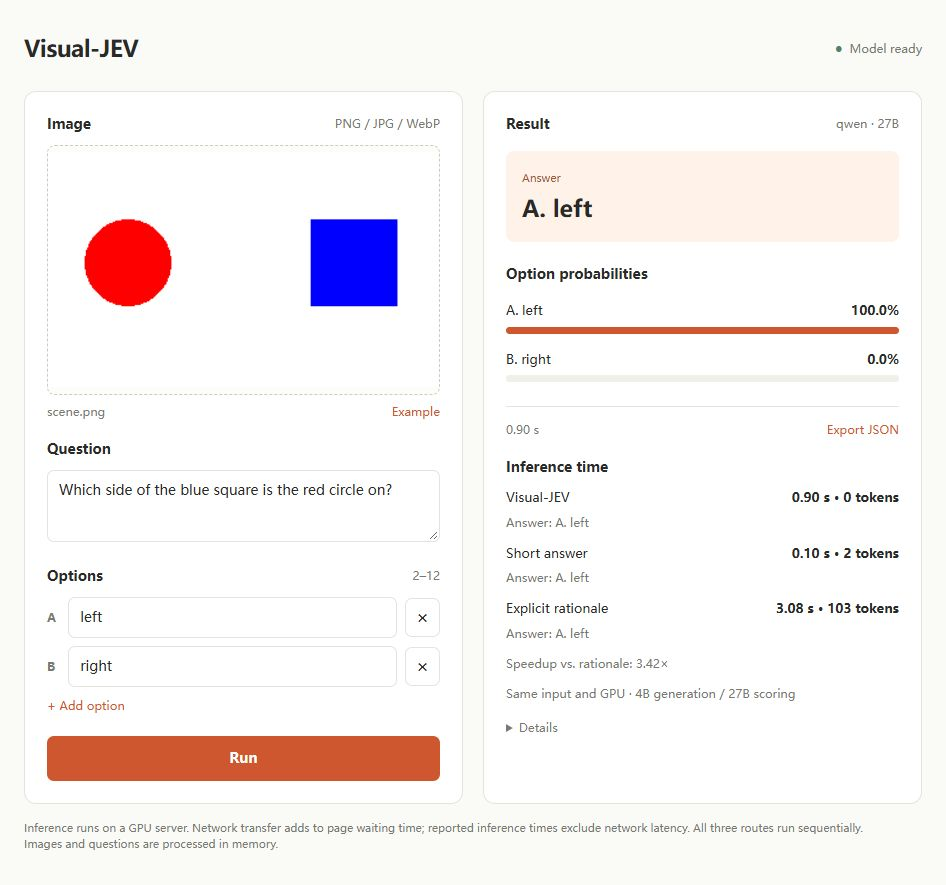
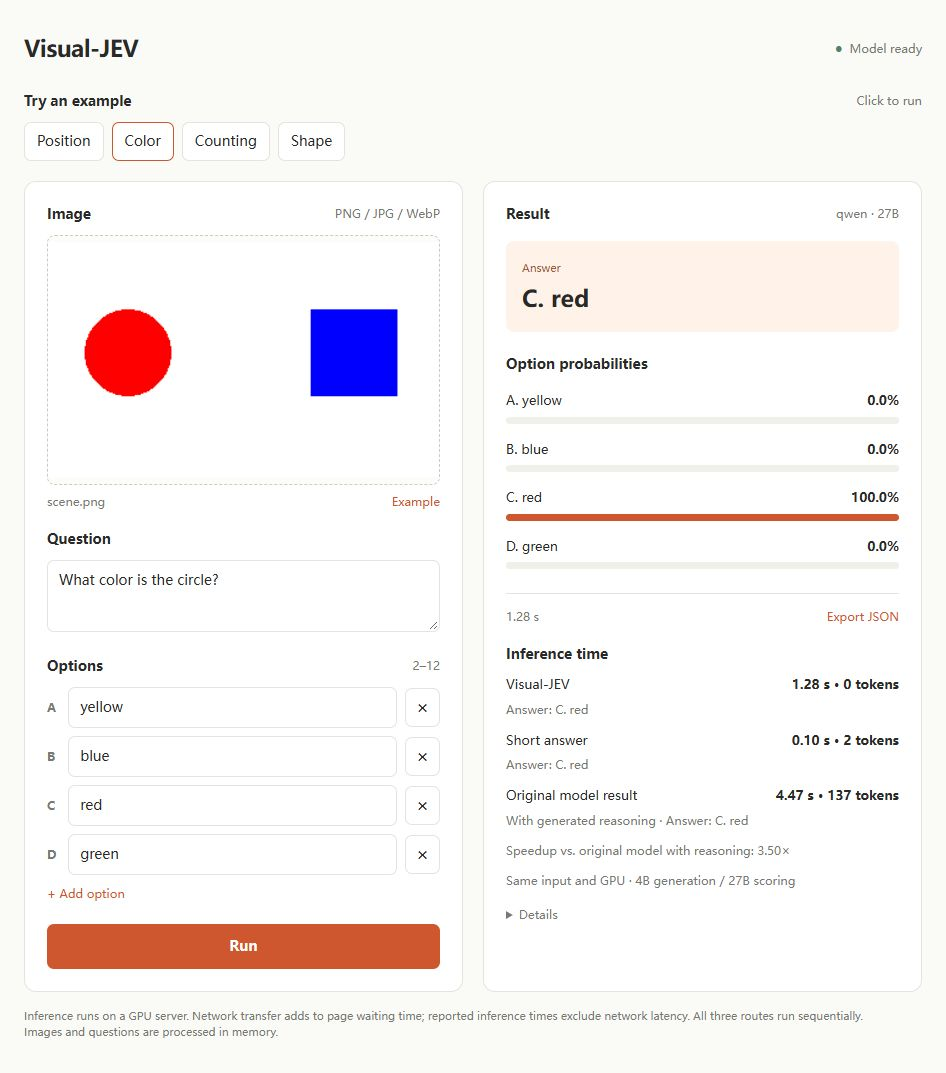
Add one-click examples and clarify original model results

diff --git a/visualjev/demo/web/index.html b/visualjev/demo/web/index.html
@@ -4,7 +4,7 @@
 :root{--ink:#292a28;--muted:#777973;--line:#e4e4dd;--accent:#cf572f}[hidden]{display:none!important}*{box-sizing:border-box}body{margin:0;background:#fafaf7;color:var(--ink);font:14px/1.5 system-ui,-apple-system,Segoe UI,sans-serif}main{max-width:1080px;margin:32px auto;padding:0 24px}header{display:flex;align-items:center;justify-content:space-between;margin-bottom:24px}h1{font-size:23px;letter-spacing:-.6px;margin:0}.status{font-size:12px;color:var(--muted)}.status:before{content:'●';margin-right:7px;color:#d7a851}.status.ready:before{color:#528268}.workspace{display:grid;grid-template-columns:1fr 1fr;gap:20px}.card{background:#fff;border:1px solid var(--line);border-radius:12px;padding:22px}.label{display:flex;justify-content:space-between;align-items:center;font-weight:600;margin-bottom:10px}.sub{color:var(--muted);font-size:12px;font-weight:400}.drop{height:250px;border:1px dashed #caccbf;border-radius:8px;background:#fcfcf9;display:flex;align-items:center;justify-content:center;cursor:pointer;overflow:hidden;text-align:center}.drop.drag{background:#fff0e8;border-color:var(--accent)}.drop img{width:100%;height:100%;object-fit:contain}.drop small{display:block;color:var(--muted);margin-top:4px}button{font:inherit;cursor:pointer;border-radius:7px;border:1px solid var(--line);padding:8px 12px;background:white;color:var(--ink)}button:hover{border-color:var(--accent)}button:disabled{cursor:wait;opacity:.55}.link{border:0;padding:0;color:var(--accent);font-size:12px;background:none}.controls{display:flex;justify-content:space-between;margin-top:8px}.field{margin-top:18px}textarea,input{font:inherit;color:var(--ink);border:1px solid var(--line);border-radius:7px;padding:9px 11px;width:100%;background:white}textarea:focus,input:focus{outline:2px solid #edc4b3;outline-offset:1px}textarea{min-height:72px;resize:vertical}.option{display:flex;align-items:center;gap:8px;margin-top:8px}.letter{font:600 12px system-ui;color:var(--muted);width:16px}.remove{padding:5px 10px;font-size:18px}.run{background:var(--accent);color:white;border:0;width:100%;margin-top:20px;font-weight:600;padding:12px}.empty{min-height:220px;display:grid;place-items:center;color:var(--muted);font-size:13px}.answer{padding:16px;background:#fff2e9;border-radius:8px;margin:16px 0 22px}.answer small{color:#9d5739;font-size:11px}.answer h2{font-size:23px;margin:4px 0 0;overflow-wrap:anywhere}.prob{margin:16px 0}.prob-top{display:flex;justify-content:space-between;gap:12px;margin-bottom:6px;font-size:13px}.prob-name{overflow-wrap:anywhere}.track{height:7px;background:#f0f0ea;border-radius:3px;overflow:hidden}.bar{height:100%;background:#d1cfc6;border-radius:3px}.prob.winner .bar{background:var(--accent)}.result-tools{display:flex;justify-content:space-between;align-items:center;margin-top:24px;border-top:1px solid var(--line);padding-top:14px}.error{color:#a33220;background:#fff0ec;padding:10px;border-radius:7px;margin-top:12px;white-space:pre-wrap}details{font-size:12px;margin-top:16px;color:var(--muted)}summary{cursor:pointer}pre{white-space:pre-wrap;overflow-wrap:anywhere;font-size:11px;max-height:220px;overflow:auto}.detail-note{margin:10px 0;font-size:12px}footer{margin-top:16px;color:var(--muted);font-size:11px}@media(max-width:740px){main{margin:20px auto;padding:0 14px}.workspace{grid-template-columns:1fr}.card{padding:18px}}
 </style></head><body><main>
 <header><h1>Visual-JEV</h1><div id="status" class="status">Connecting…</div></header>
-<div class="workspace"><section class="card">
+<section style="margin-bottom:20px"><div class="label">Try an example <span class="sub">Click to run</span></div><div id="quick-examples" style="display:flex;flex-wrap:wrap;gap:8px"></div></section><div class="workspace"><section class="card">
 <div class="label">Image <span class="sub">PNG / JPG / WebP</span></div>
 <div id="drop" class="drop" tabindex="0" role="button" aria-label="Upload image"><div id="placeholder">Drop an image or click to upload<small>Up to 16 MB</small></div><img id="preview" alt="Uploaded image" hidden></div>
 <input id="file" type="file" accept="image/png,image/jpeg,image/webp" hidden>
@@ -19,5 +19,13 @@
 <div id="comparison" style="margin-top:18px"></div><details><summary>Details</summary><p class="detail-note">Probabilities: softmax over the supplied options at T = 1. Model time excludes upload and loading.</p><pre id="details"></pre></details>
 </div></section></div><footer>Inference runs on a GPU server. Network transfer adds to page waiting time; reported inference times exclude network latency. All three routes run sequentially.<br>Images and questions are processed in memory.</footer>
 </main><script>
-function nativeAnswer(x,candidates){const text=(x.output||'').trim();const final=[...text.matchAll(/(?:answer|final answer)\s*:\s*\**\s*([A-L])\b/gi)];const simple=text.match(/^\**\s*([A-L])(?:[.\s)]|$)/i);let letter=final.length?final[final.length-1][1]:((x.route==='Short answer'&&simple)?simple[1]:null);if(letter){const i=letter.toUpperCase().charCodeAt(0)-65;if(i<candidates.length)return letter.toUpperCase()+'. '+candidates[i];}const exact=candidates.findIndex(c=>c.toLowerCase()===text.toLowerCase());return exact>=0?String.fromCharCode(65+exact)+'. '+candidates[exact]:'No clear option (see Details)';}let imageData=null,lastResult=null,ready=false,busy=false;const $=id=>document.getElementById(id);function invalidate(){lastResult=null;$('result').hidden=true;$('empty').hidden=false;}function lockInputs(on){document.querySelectorAll('input,textarea,#add,#example,.remove').forEach(x=>x.disabled=on);if(!on)renumber();}function addOption(value=''){if($('options').children.length>=12)return;const row=document.createElement('div');row.className='option';const letter=document.createElement('span');letter.className='letter';const input=document.createElement('input');input.value=value;input.placeholder='Enter an answer';const rm=document.createElement('button');rm.className='remove';rm.textContent='×';rm.title='Remove option';rm.onclick=()=>{if($('options').children.length>2){row.remove();renumber();invalidate();}};row.append(letter,input,rm);$('options').append(row);renumber();}function renumber(){[...$('options').children].forEach((r,i)=>{r.firstChild.textContent=String.fromCharCode(65+i);r.querySelector('input').setAttribute('aria-label','Option '+String.fromCharCode(65+i));});$('add').disabled=$('options').children.length>=12;}addOption();addOption();$('add').onclick=()=>{addOption();invalidate();};$('question').oninput=invalidate;$('options').oninput=invalidate;function error(t){$('error').textContent=t;$('error').hidden=!t;}async function setFile(file){if(!file||busy)return;if(file.size>16*1024*1024)return error('Please use an image smaller than 16 MB.');if(!['image/png','image/jpeg','image/webp'].includes(file.type))return error('Please use PNG, JPEG or WebP.');const data=await new Promise((res,rej)=>{const r=new FileReader();r.onload=()=>res(r.result);r.onerror=rej;r.readAsDataURL(file);});imageData=data;$('preview').src=data;$('preview').hidden=false;$('placeholder').hidden=true;$('filename').textContent=file.name;error('');$('result').hidden=true;$('empty').hidden=false;}$('drop').onclick=()=>$('file').click();$('drop').onkeydown=e=>{if(e.key==='Enter'||e.key===' '){e.preventDefault();$('file').click();}};$('file').onchange=e=>setFile(e.target.files[0]);$('drop').ondragover=e=>{e.preventDefault();$('drop').classList.add('drag');};$('drop').ondragleave=()=>$('drop').classList.remove('drag');$('drop').ondrop=e=>{e.preventDefault();$('drop').classList.remove('drag');setFile(e.dataTransfer.files[0]);};$('example').onclick=async()=>{const r=await fetch('/example.png');await setFile(new File([await r.blob()],'scene.png',{type:'image/png'}));$('question').value='Which side of the blue square is the red circle on?';$('options').replaceChildren();addOption('left');addOption('right');};async function status(){try{const r=await fetch('/api/status');const s=await r.json();ready=s.ready;$('status').textContent=s.error?'Model failed to load':s.ready?(s.busy?'Processing a request':'Model ready'):'Loading model…';$('status').className='status'+(s.ready?' ready':'');$('route').textContent=s.encoder+' · 27B';if(!busy){$('run').disabled=!ready;$('run').textContent=s.error?'Check setup':ready?'Run':'Loading…';}if(s.error)error(s.error);}catch(e){ready=false;$('status').textContent='Server disconnected';$('run').disabled=true;}}status();setInterval(status,3000);$('run').onclick=async()=>{error('');const candidates=[...$('options').querySelectorAll('input')].map(x=>x.value.trim());if(!imageData)return error('Upload an image first.');if(!$('question').value.trim())return error('Write a question first.');if(candidates.some(x=>!x))return error('Fill every answer option.');if(new Set(candidates).size!==candidates.length)return error('Use distinct answer options.');busy=true;lockInputs(true);$('run').disabled=true;$('run').textContent='Running…';$('run').classList.add('spin');$('result').hidden=true;$('empty').hidden=false;try{const response=await fetch('/api/predict',{method:'POST',headers:{'Content-Type':'application/json'},body:JSON.stringify({image:imageData,question:$('question').value,candidates})});const data=await response.json();if(!response.ok)throw Error(data.error||'Inference failed.');lastResult=data;$('answer').textContent=String.fromCharCode(65+data.prediction)+'. '+data.answer;$('probs').replaceChildren();data.candidates.forEach((c,i)=>{const row=document.createElement('div');row.className='prob'+(i===data.prediction?' winner':'');const top=document.createElement('div');top.className='prob-top';const name=document.createElement('span');name.className='prob-name';name.textContent=String.fromCharCode(65+i)+'. '+c;const val=document.createElement('strong');val.textContent=(data.probabilities[i]*100).toFixed(1)+'%';top.append(name,val);const track=document.createElement('div');track.className='track';const bar=document.createElement('div');bar.className='bar';bar.style.width=(data.probabilities[i]*100)+'%';track.append(bar);row.append(top,track);$('probs').append(row);});$('latency').textContent=data.timing_seconds.model_total.toFixed(2)+' s';$('comparison').replaceChildren();if(data.native_comparison){const title=document.createElement('div');title.className='label';title.textContent='Inference time';$('comparison').append(title);const all=[{route:'Visual-JEV',seconds:data.timing_seconds.model_total,generated_tokens:0},...data.native_comparison];all.forEach(x=>{const r=document.createElement('div');r.className='prob-top';const name=document.createElement('span');name.textContent=x.route;const val=document.createElement('strong');val.textContent=x.seconds.toFixed(2)+' s · '+x.generated_tokens+' tokens'+(x.reached_token_cap?' (limit)':'');r.append(name,val);$('comparison').append(r);const answer=document.createElement('div');answer.className='sub';answer.style.marginBottom='12px';answer.textContent='Answer: '+(x.route==='Visual-JEV'?String.fromCharCode(65+data.prediction)+'. '+data.answer:nativeAnswer(x,data.candidates));$('comparison').append(answer);});const n=data.native_comparison.find(x=>x.route==='Explicit rationale');if(n){const r=document.createElement('p');r.className='sub';r.textContent='Speedup vs. rationale: '+(n.seconds/data.timing_seconds.model_total).toFixed(2)+'×';$('comparison').append(r);}const note=document.createElement('p');note.className='sub';note.textContent='Same input and GPU · 4B generation / 27B scoring';$('comparison').append(note);}$('details').textContent=JSON.stringify(data,null,2);$('empty').hidden=true;$('result').hidden=false;}catch(e){error(e.message);}finally{busy=false;lockInputs(false);$('run').classList.remove('spin');status();}};$('download').onclick=()=>{if(!lastResult)return;const url=URL.createObjectURL(new Blob([JSON.stringify(lastResult,null,2)],{type:'application/json'}));const a=document.createElement('a');a.href=url;a.download='visual-jev-'+lastResult.request_id+'.json';a.click();setTimeout(()=>URL.revokeObjectURL(url),1000);};
+function nativeAnswer(x,candidates){const text=(x.output||'').trim();const final=[...text.matchAll(/(?:answer|final answer)\s*:\s*\**\s*([A-L])\b/gi)];const simple=text.match(/^\**\s*([A-L])(?:[.\s)]|$)/i);let letter=final.length?final[final.length-1][1]:((x.route==='Short answer'&&simple)?simple[1]:null);if(letter){const i=letter.toUpperCase().charCodeAt(0)-65;if(i<candidates.length)return letter.toUpperCase()+'. '+candidates[i];}const exact=candidates.findIndex(c=>c.toLowerCase()===text.toLowerCase());return exact>=0?String.fromCharCode(65+exact)+'. '+candidates[exact]:'No clear option (see Details)';}let imageData=null,lastResult=null,ready=false,busy=false;const $=id=>document.getElementById(id);function invalidate(){lastResult=null;$('result').hidden=true;$('empty').hidden=false;}function lockInputs(on){document.querySelectorAll('input,textarea,#add,#example,.remove,#quick-examples button').forEach(x=>x.disabled=on);if(!on)renumber();}function addOption(value=''){if($('options').children.length>=12)return;const row=document.createElement('div');row.className='option';const letter=document.createElement('span');letter.className='letter';const input=document.createElement('input');input.value=value;input.placeholder='Enter an answer';const rm=document.createElement('button');rm.className='remove';rm.textContent='×';rm.title='Remove option';rm.onclick=()=>{if($('options').children.length>2){row.remove();renumber();invalidate();}};row.append(letter,input,rm);$('options').append(row);renumber();}function renumber(){[...$('options').children].forEach((r,i)=>{r.firstChild.textContent=String.fromCharCode(65+i);r.querySelector('input').setAttribute('aria-label','Option '+String.fromCharCode(65+i));});$('add').disabled=$('options').children.length>=12;}addOption();addOption();$('add').onclick=()=>{addOption();invalidate();};$('question').oninput=invalidate;$('options').oninput=invalidate;function error(t){$('error').textContent=t;$('error').hidden=!t;}async function setFile(file){if(!file||busy)return;if(file.size>16*1024*1024)return error('Please use an image smaller than 16 MB.');if(!['image/png','image/jpeg','image/webp'].includes(file.type))return error('Please use PNG, JPEG or WebP.');const data=await new Promise((res,rej)=>{const r=new FileReader();r.onload=()=>res(r.result);r.onerror=rej;r.readAsDataURL(file);});imageData=data;$('preview').src=data;$('preview').hidden=false;$('placeholder').hidden=true;$('filename').textContent=file.name;error('');$('result').hidden=true;$('empty').hidden=false;}$('drop').onclick=()=>$('file').click();$('drop').onkeydown=e=>{if(e.key==='Enter'||e.key===' '){e.preventDefault();$('file').click();}};$('file').onchange=e=>setFile(e.target.files[0]);$('drop').ondragover=e=>{e.preventDefault();$('drop').classList.add('drag');};$('drop').ondragleave=()=>$('drop').classList.remove('drag');$('drop').ondrop=e=>{e.preventDefault();$('drop').classList.remove('drag');setFile(e.dataTransfer.files[0]);};$('example').onclick=async()=>{const r=await fetch('/example.png');await setFile(new File([await r.blob()],'scene.png',{type:'image/png'}));$('question').value='Which side of the blue square is the red circle on?';$('options').replaceChildren();addOption('left');addOption('right');};async function status(){try{const r=await fetch('/api/status');const s=await r.json();ready=s.ready;$('status').textContent=s.error?'Model failed to load':s.ready?(s.busy?'Processing a request':'Model ready'):'Loading model…';$('status').className='status'+(s.ready?' ready':'');$('route').textContent=s.encoder+' · 27B';if(!busy){$('run').disabled=!ready;$('run').textContent=s.error?'Check setup':ready?'Run':'Loading…';}if(s.error)error(s.error);}catch(e){ready=false;$('status').textContent='Server disconnected';$('run').disabled=true;}}status();setInterval(status,3000);$('run').onclick=async()=>{error('');const candidates=[...$('options').querySelectorAll('input')].map(x=>x.value.trim());if(!imageData)return error('Upload an image first.');if(!$('question').value.trim())return error('Write a question first.');if(candidates.some(x=>!x))return error('Fill every answer option.');if(new Set(candidates).size!==candidates.length)return error('Use distinct answer options.');busy=true;lockInputs(true);$('run').disabled=true;$('run').textContent='Running…';$('run').classList.add('spin');$('result').hidden=true;$('empty').hidden=false;try{const response=await fetch('/api/predict',{method:'POST',headers:{'Content-Type':'application/json'},body:JSON.stringify({image:imageData,question:$('question').value,candidates})});const data=await response.json();if(!response.ok)throw Error(data.error||'Inference failed.');lastResult=data;$('answer').textContent=String.fromCharCode(65+data.prediction)+'. '+data.answer;$('probs').replaceChildren();data.candidates.forEach((c,i)=>{const row=document.createElement('div');row.className='prob'+(i===data.prediction?' winner':'');const top=document.createElement('div');top.className='prob-top';const name=document.createElement('span');name.className='prob-name';name.textContent=String.fromCharCode(65+i)+'. '+c;const val=document.createElement('strong');val.textContent=(data.probabilities[i]*100).toFixed(1)+'%';top.append(name,val);const track=document.createElement('div');track.className='track';const bar=document.createElement('div');bar.className='bar';bar.style.width=(data.probabilities[i]*100)+'%';track.append(bar);row.append(top,track);$('probs').append(row);});$('latency').textContent=data.timing_seconds.model_total.toFixed(2)+' s';$('comparison').replaceChildren();if(data.native_comparison){const title=document.createElement('div');title.className='label';title.textContent='Inference time';$('comparison').append(title);const all=[{route:'Visual-JEV',seconds:data.timing_seconds.model_total,generated_tokens:0},...data.native_comparison];all.forEach(x=>{const r=document.createElement('div');r.className='prob-top';const name=document.createElement('span');name.textContent=x.route==='Explicit rationale'?'Original model result':x.route;const val=document.createElement('strong');val.textContent=x.seconds.toFixed(2)+' s · '+x.generated_tokens+' tokens'+(x.reached_token_cap?' (limit)':'');r.append(name,val);$('comparison').append(r);const answer=document.createElement('div');answer.className='sub';answer.style.marginBottom='12px';answer.textContent=(x.route==='Explicit rationale'?'With generated reasoning · Answer: ':'Answer: ')+(x.route==='Visual-JEV'?String.fromCharCode(65+data.prediction)+'. '+data.answer:nativeAnswer(x,data.candidates));$('comparison').append(answer);});const n=data.native_comparison.find(x=>x.route==='Explicit rationale');if(n){const r=document.createElement('p');r.className='sub';r.textContent='Speedup vs. original model with reasoning: '+(n.seconds/data.timing_seconds.model_total).toFixed(2)+'×';$('comparison').append(r);}const note=document.createElement('p');note.className='sub';note.textContent='Same input and GPU · 4B generation / 27B scoring';$('comparison').append(note);}$('details').textContent=JSON.stringify(data,null,2);$('empty').hidden=true;$('result').hidden=false;}catch(e){error(e.message);}finally{busy=false;lockInputs(false);$('run').classList.remove('spin');status();}};$('download').onclick=()=>{if(!lastResult)return;const url=URL.createObjectURL(new Blob([JSON.stringify(lastResult,null,2)],{type:'application/json'}));const a=document.createElement('a');a.href=url;a.download='visual-jev-'+lastResult.request_id+'.json';a.click();setTimeout(()=>URL.revokeObjectURL(url),1000);};
+
+const quickExamples=[
+ {title:'Position',question:'Which side of the blue square is the red circle on?',options:['left','right','above','below']},
+ {title:'Color',question:'What color is the circle?',options:['yellow','blue','red','green']},
+ {title:'Counting',question:'How many shapes are visible in the image?',options:['one','two','three','four']},
+ {title:'Shape',question:'What shape is the blue object?',options:['circle','triangle','square','star']}
+];
+quickExamples.forEach(e=>{const b=document.createElement('button');b.textContent=e.title;b.onclick=async()=>{if(busy)return;error('');try{const r=await fetch('/example.png');if(!r.ok)throw Error('Cannot load example.');await setFile(new File([await r.blob()],'scene.png',{type:'image/png'}));$('question').value=e.question;$('options').replaceChildren();e.options.forEach(x=>addOption(x));invalidate();if(ready)$('run').click();else error('Example loaded. Wait for Model ready, then click Run.');}catch(err){error(err.message);}};$('quick-examples').append(b);});
 </script></body></html>

diff --git a/docs/DEMO.md b/docs/DEMO.md
@@ -110,3 +110,5 @@ model; the combined Qwen runtime is tested on an 80 GB H100.
 The comparison shows the option selected by each route. Native answers are parsed from the final Answer: letter, or a direct short-answer letter; ambiguous outputs are marked and retained in Details. GPU-server network transfer adds to browser waiting time, while reported inference times exclude network latency. All three routes run sequentially, so page waiting time includes their combined execution.
 
 ![Live inference comparison](assets/demo.jpg)
+
+The four buttons above the form run ready-to-use position, color, counting and shape questions on the included scene. Clicking a button fills the image, question and options and starts fresh inference automatically. The custom input form remains editable. Original model result refers to native generation with explicit reasoning; the short-answer route is shown separately.
